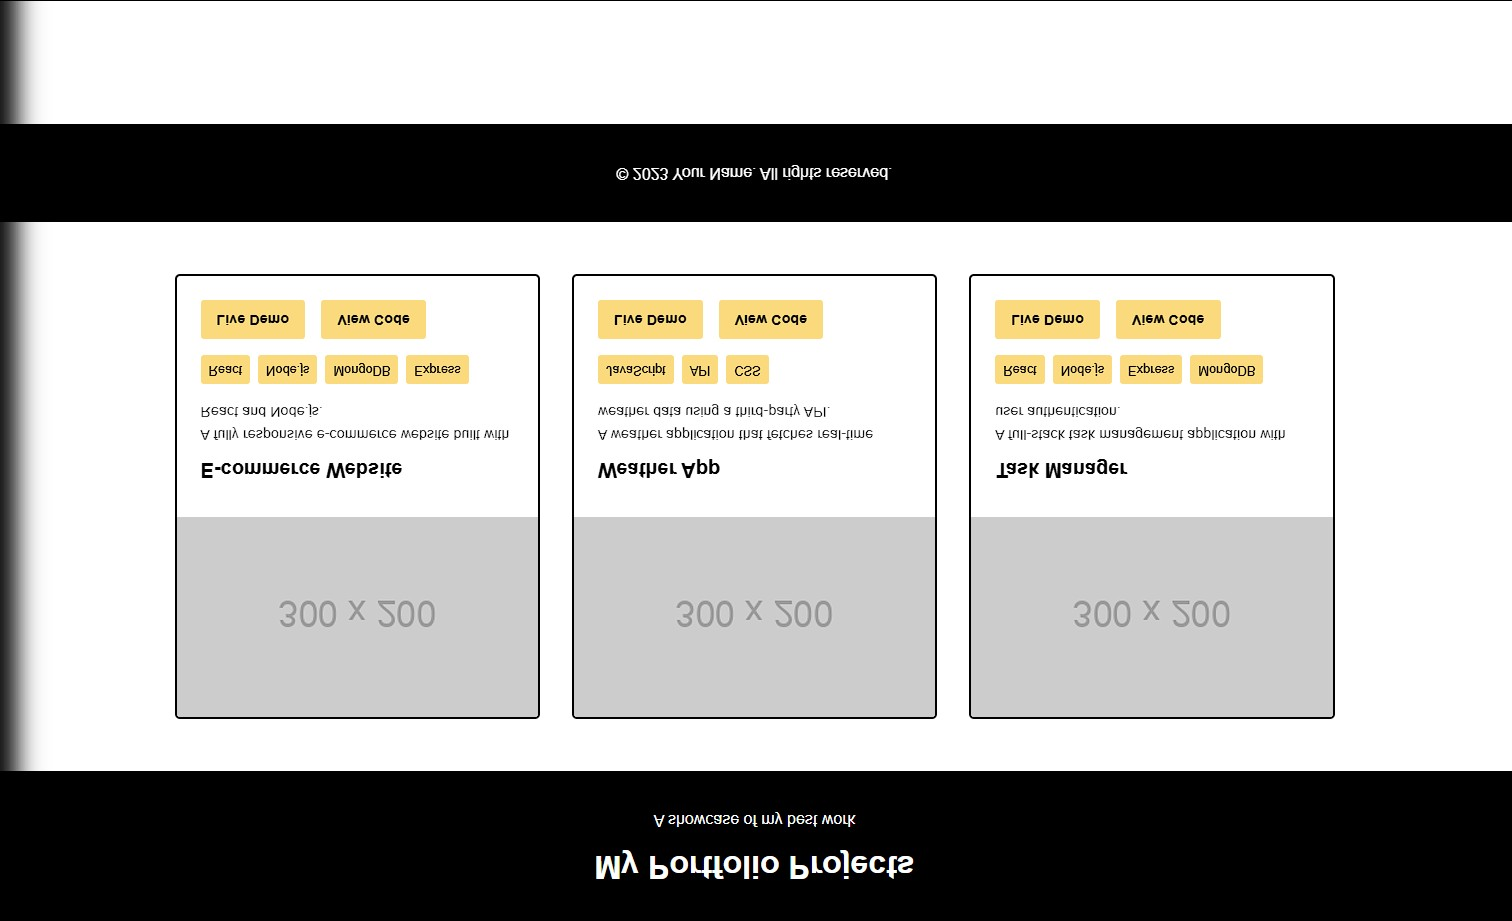
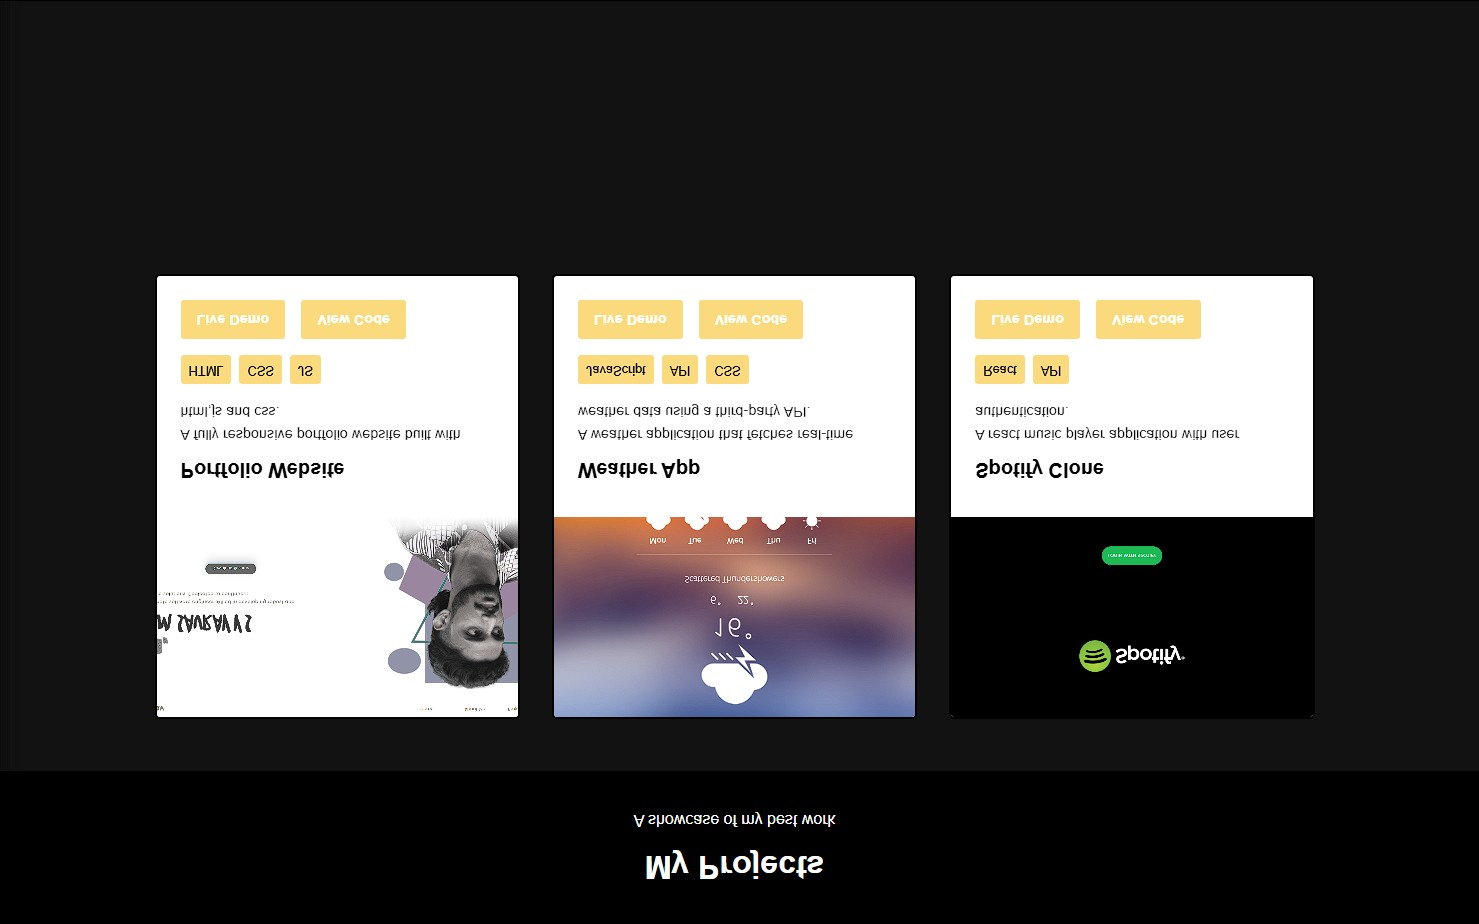
Initial commit 5

diff --git a/three/index.html b/three/index.html
@@ -9,7 +9,135 @@
     <script src="https://code.jquery.com/jquery-3.6.0.min.js"></script>
     <meta name="description" content="">
     <title>Saurav</title>
-    
+   
+    <style>
+      /* Reset and base styles */
+      * {
+          margin: 0;
+          padding: 0;
+          box-sizing: border-box;
+      }
+
+      body {
+          font-family: Arial, sans-serif;
+          line-height: 1.6;
+          color: #000;
+          background-color:#111;
+      }
+
+      /* Container */
+      .container {
+          max-width: 1200px;
+          margin: 0 auto;
+          padding: 20px;
+      }
+
+      /* Header */
+      header {
+          background-color: #000;
+          color: #fff;
+          text-align: center;
+          padding: 1rem;
+      }
+
+      header h1 {
+          margin-bottom: 0.5rem;
+      }
+
+      /* Projects section */
+      .projects {
+          display: grid;
+          grid-template-columns: repeat(auto-fit, minmax(300px, 1fr));
+          gap: 2rem;
+          padding: 2rem 0;
+      }
+
+      .project {
+          background-color: #fff;
+          border: 2px solid #000;
+          border-radius: 5px;
+          overflow: hidden;
+          transition: transform 0.3s ease, box-shadow 0.3s ease;
+      }
+
+      .project:hover {
+          transform: translateY(-5px);
+          box-shadow: 10px 10px 5px lightblue;
+      }
+
+      .project-image {
+          width: 100%;
+          height: 200px;
+          object-fit: cover;
+      }
+
+      .project-content {
+          padding: 1.5rem;
+      }
+
+      .project-title {
+          font-size: 1.25rem;
+          margin-bottom: 0.5rem;
+          color: #000;
+      }
+
+      .project-description {
+          font-size: 0.9rem;
+          color: #333;
+          margin-bottom: 1rem;
+      }
+
+      .project-tags {
+          display: flex;
+          flex-wrap: wrap;
+          gap: 0.5rem;
+          margin-bottom: 1rem;
+      }
+
+      .project-tag {
+          background-color: #FADA7D;
+          color: #000;
+          padding: 0.25rem 0.5rem;
+          border-radius: 3px;
+          font-size: 0.8rem;
+      }
+
+      .project-links {
+          display: flex;
+          gap: 1rem;
+      }
+
+      .project-link {
+          text-decoration: none;
+          color: #000;
+          font-weight: bold;
+          font-size: 0.9rem;
+          padding: 0.5rem 1rem;
+          background-color: #FADA7D;
+          border-radius: 3px;
+          transition: background-color 0.3s ease;
+      }
+
+      .project-link:hover {
+          background-color: #000;
+          color: #FADA7D;
+      }
+
+      /* Footer */
+      footer {
+          text-align: center;
+          padding: 1rem;
+          background-color: #000;
+          color: #fff;
+      }
+
+      /* Responsive design */
+      @media (max-width: 768px) {
+          .projects {
+              grid-template-columns: 1fr;
+          }
+      }
+  </style>
   </head>
   <body>
     <div id = "preloader"></div>
@@ -23,7 +151,7 @@
         <a class = "saudu" href = "#about"  onclick = "reset('about');switchColors(this);"  ><i class="fa-solid fa-address-card"></i> <span>About Me</span></a>
         <a class = "saudu" href = "#about" onclick = "reset('skills');switchColors(this);"><i class="fa-solid fa-hammer"></i> <span>Skills</span></a>
         <a class = "saudu" href = "#about" onclick = "switchColors(this);reset('project');"><i class="fa-solid fa-tarp"></i> <span>My Projects</span>  </a>
-        <a class = "saudu" href = "#home" onclick = "switchColors(this)"><i class="fa-solid fa-address-book"></i> <span>Contact Me</span>  </a>
+        <a class = "saudu" href = "#about" onclick = "switchColors(this);reset('contact');"><i class="fa-solid fa-address-book"></i> <span>Contact Me</span>  </a>
       </div>
       <div class="socials">
         <p>©</p>
@@ -52,9 +180,74 @@
         <div class="model-canvas"></div>
       </div>
      </div>
-    <div id ="content"></div>
+    <div id ="content">    <header>
+      <div class="container">
+          <h1>My Projects</h1>
+          <p>A showcase of my best work</p>
+      </div>
+  </header>
+
+  <main class="container">
+      <section class="projects">
+          <article class="project">
+              <img src="/templates/portold.png" alt="E-commerce Website" class="project-image">
+              <div class="project-content">
+                  <h2 class="project-title">Portfolio Website</h2>
+                  <p class="project-description">A fully responsive portfolio website built with html,js and css.</p>
+                  <div class="project-tags">
+                      <span class="project-tag">HTML</span>
+                      <span class="project-tag">CSS</span>
+                      <span class="project-tag">JS</span>
+                  </div>
+                  <div class="project-links">
+                      <a href="#" class="project-link">Live Demo</a>
+                      <a href="https://github.com/sauravsajeev/Portfolio-website.git" class="project-link">View Code</a>
+                  </div>
+              </div>
+          </article>
+
+          <article class="project">
+              <img src="https://www.sketchappsources.com/resources/source-image/weather-app-icons.jpg" alt="Weather App" class="project-image">
+              <div class="project-content">
+                  <h2 class="project-title">Weather App</h2>
+                  <p class="project-description">A weather application that fetches real-time weather data using a third-party API.</p>
+                  <div class="project-tags">
+                      <span class="project-tag">JavaScript</span>
+                      <span class="project-tag">API</span>
+                      <span class="project-tag">CSS</span>
+                  </div>
+                  <div class="project-links">
+                      <a href="#" class="project-link">Live Demo</a>
+                      <a href="https://github.com/sauravsajeev/Weather-app-using-node.js.git" class="project-link">View Code</a>
+                  </div>
+              </div>
+          </article>
+
+          <article class="project">
+              <img src="https://miro.medium.com/v2/resize:fit:1400/1*7ltc4LT60xBzn150-Njraw.png" alt="Task Manager" class="project-image">
+              <div class="project-content">
+                  <h2 class="project-title">Spotify Clone</h2>
+                  <p class="project-description">A react music player application with user authentication.</p>
+                  <div class="project-tags">
+                      <span class="project-tag">React</span>
+                      <span class="project-tag">API</span>
+                  </div>
+                  <div class="project-links">
+                      <a href="#" class="project-link">Live Demo</a>
+                      <a href="https://github.com/sauravsajeev/musicplayer.git" class="project-link">View Code</a>
+                  </div>
+              </div>
+          </article>
+      </section>
+  </main></div>
   </div>
     <div id="app"></div>
+    <script>
+      var loader = document.getElementById("preloader");
+  window.addEventListener("load",function(){
+    loader.style.display = "none";
+  })
+  </script>
     <script type="x-shader/x-vertex" id="vertexshader">
       varying vec2 vUv;
       void main() {
@@ -73,6 +266,10 @@
     <script type="module" src="/main.js"></script>
     <script type="module" src="/help/about.js"></script>
     <script>
+      if (performance.navigation.type === 1) {
+        // Redirect to the home page
+        window.location.href = '/';
+    }
       function switchColors(element)  
 {  
 links=document.getElementsByTagName("a") ;  
@@ -80,11 +277,9 @@ for (var i = 0 ; i < links.length ; i ++)
 links.item(i).style.color = 'white' ;  
 element.style.color='#FADA7D' ;  
 }  
-var loader = document.getElementById("preloader");
-window.addEventListener("load",function(){
-  loader.style.display = "none";
-})
+
     </script>
+ 
     <script src="/help/hash-router.js"></script>
   </body>
 </html>

diff --git a/three/help/about.js b/three/help/about.js
@@ -59,8 +59,6 @@ scenes.add(spotLight)
 //CAMERA
 const cameras = new THREE.PerspectiveCamera(45,sizes.width/sizes.height,0.1,1000)
 cameras.position.set(15, 15,-11);
-const helper = new THREE.CameraHelper(cameras);
-scenes.add(helper);
 
 scenes.add(cameras)
 const loaders = new GLTFLoader();
@@ -244,7 +242,8 @@ function onClick2(event) {
     console.log("inside project");
     updateprojectcam();
    }
-   else{
+   else if (page == 'contact'){
+    updatecontactcam();
    }
       // : null;
 }
@@ -356,6 +355,12 @@ function normalpos(){
   
   lastpos= [-3.4, 7.4,-6.1,-10.121976852416992, 7.701351928710938, -5.95456985473633];
   }
+  else if (page =="contact") {
+    cameras.position.set(-6.5, 5,1);
+    cameras.lookAt(new THREE.Vector3(-10.121976852416992, -6.01351928710938, 0.3956985473633));
+  
+  lastpos= [-6.5, 5,1,-10.121976852416992, -6.01351928710938, 0.3956985473633];
+  }
 }
 
 function updateskillcam(){
@@ -394,7 +399,28 @@ function updateprojectcam(){
     },
     onComplete:normalpos
 });
-lastpos =[-5.5,7.5,1,-5.0699995040893555,  7.079998970031738,  20.9600];
+lastpos =[-6,4,-4.9,-10.121976852416992, 4.01351928710938, -4.8956985473633];
+}
+
+function updatecontactcam(){
+  movementcam =false;
+  model2.rotation.y = 0;
+  cameras.position.set(15, 15,-11);
+  cameras.lookAt(2 ,7.884449005126953, -4.130945205688477);
+  t1.to(cameras.position,{
+    x:-6.5,
+    y:5,
+    z:1,
+    duration:3,
+    ease:"power3.inOut",
+    onUpdate:function(){
+      cameras.lookAt(new THREE.Vector3(-10.121976852416992, -6.01351928710938, 0.3956985473633));
+        
+    },
+    onComplete:normalpos
+});
+
+lastpos =[-6.5,5,1,10.121976852416992, -6.01351928710938, 0.3956985473633];
 }
 
 let mouseX = 0; // Horizontal mouse position

diff --git a/three/style.css b/three/style.css
@@ -253,7 +253,7 @@ display: none;
   background:#000 url(https://i.gifer.com/78ff.gif) center;
   background-repeat: no-repeat;
   position:fixed;
-  z-index: 1000;
+  z-index: 1002;
   height:100vh;
   width:100vw;
 
